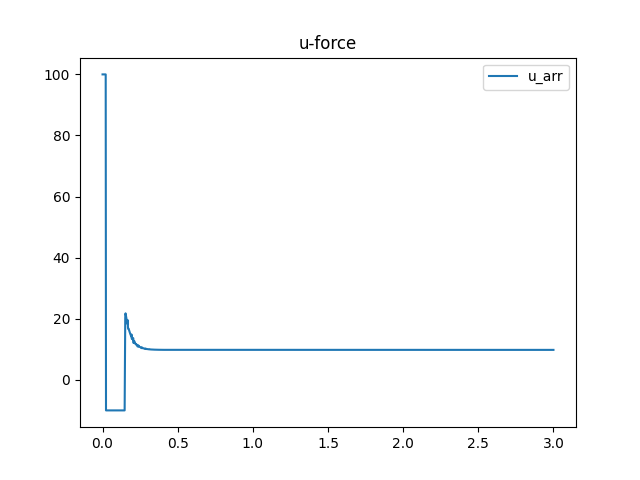
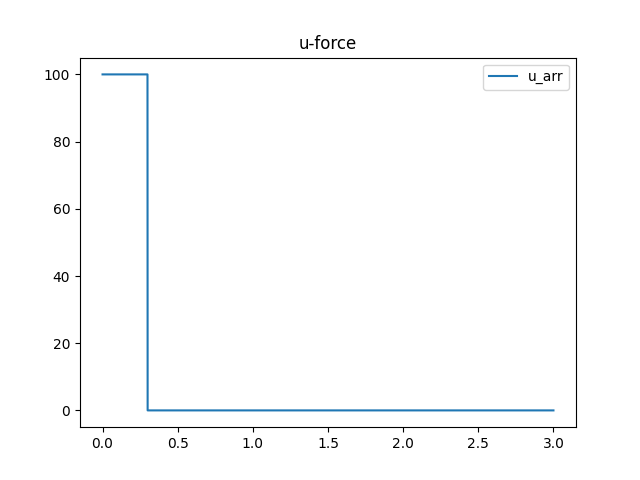
update the delay attack

diff --git a/src/examples/quad_actuator_delay.py b/src/examples/quad_actuator_delay.py
@@ -201,12 +201,12 @@ if __name__ == "__main__":
         ip.update_current_ref(ref[i])
         # attack here
         # ip state record the sensor data
-        # u = delay_attack.launch(ip.cur_u, ip.cur_index, ip.inputs)
-        # print('this is u', u)
-        # ip.evolve(u=u)
+        u = delay_attack.launch(ip.cur_u, ip.cur_index, ip.inputs)
+        print('this is u', u)
+        # attacked signal
+        ip.evolve(u=u)
         # ip.cur_feedback = delay_attack.launch(ip.cur_feedback, ip.cur_index, ip.states)
-        print('current input', ip.cur_u)
-        ip.evolve()
+        # print('current input', ip.cur_u)
     # 定义数据
     t_arr = np.linspace(0, 3, max_index + 1)
     ref2 = [x[-4] for x in ip.refs[:max_index + 1]]
